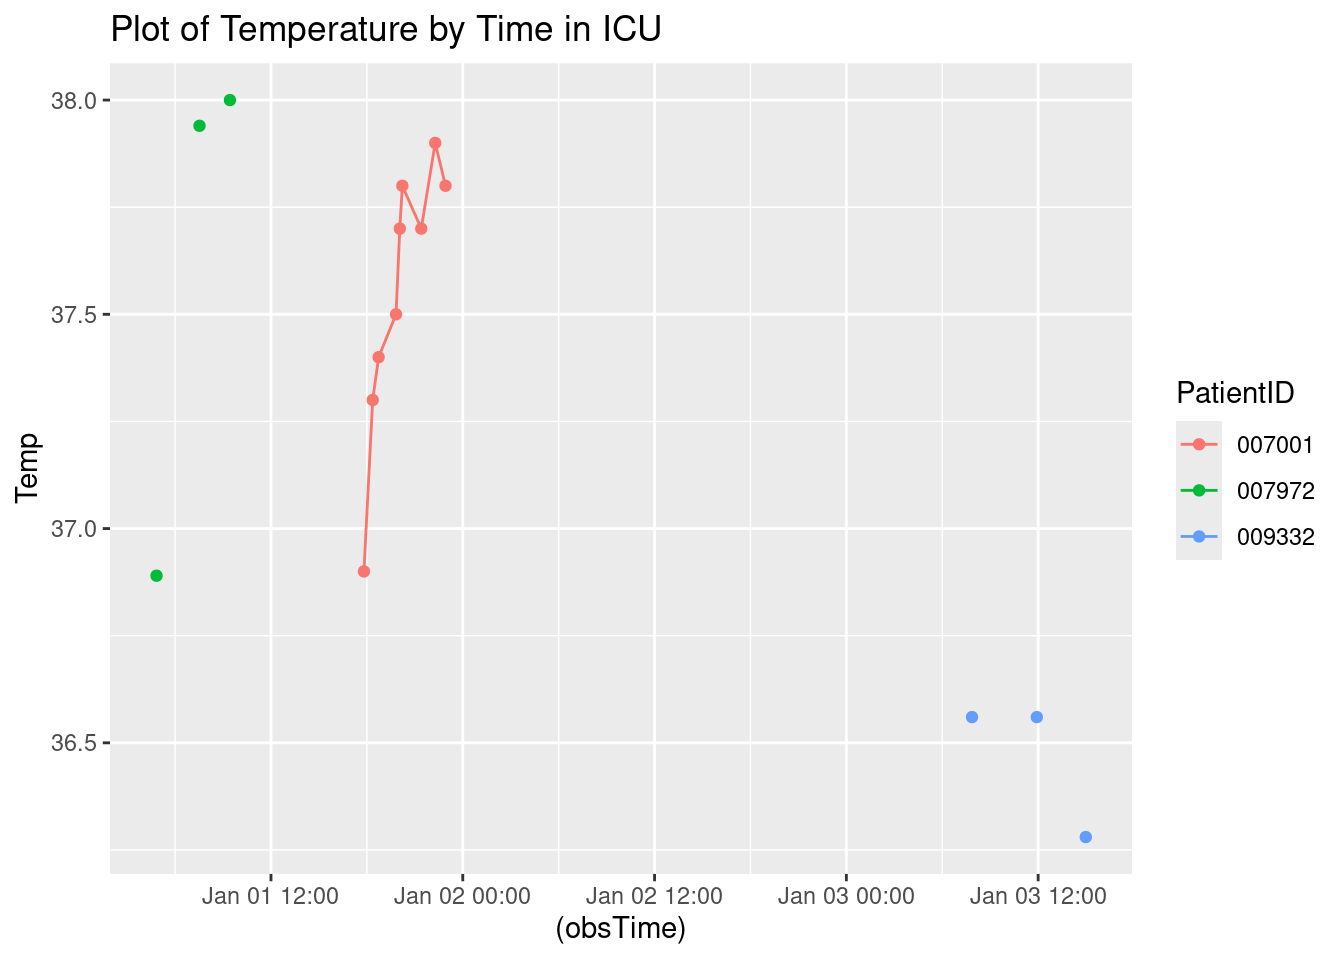
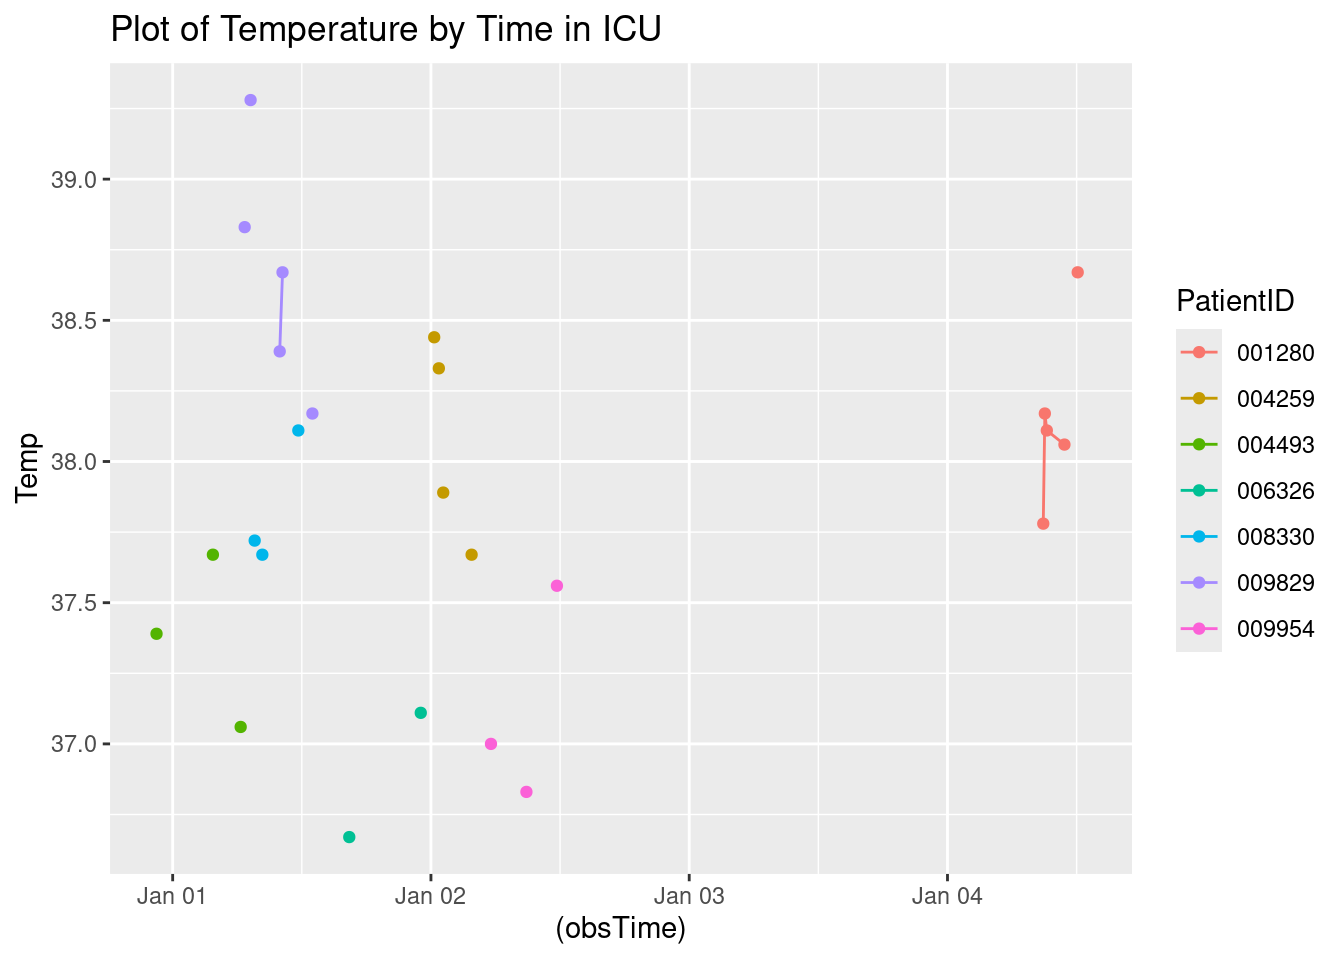
Updated report

diff --git a/A7.html b/A7.html
@@ -116,7 +116,7 @@ pre > code.sourceCode > span > a:first-child::before { text-decoration: underlin
 </div>
 <div class="sourceCode cell-code" id="cb4"><pre class="sourceCode r code-with-copy"><code class="sourceCode r"><span id="cb4-1"><a href="#cb4-1" aria-hidden="true" tabindex="-1"></a><span class="fu">toc</span>()</span></code><button title="Copy to Clipboard" class="code-copy-button"><i class="bi"></i></button></pre></div>
 <div class="cell-output cell-output-stdout">
-<pre><code>16.67 sec elapsed</code></pre>
+<pre><code>29.905 sec elapsed</code></pre>
 </div>
 <div class="sourceCode cell-code" id="cb6"><pre class="sourceCode r code-with-copy"><code class="sourceCode r"><span id="cb6-1"><a href="#cb6-1" aria-hidden="true" tabindex="-1"></a><span class="fu">tic</span>()</span>
 <span id="cb6-2"><a href="#cb6-2" aria-hidden="true" tabindex="-1"></a>test1<span class="ot">=</span><span class="fu">makeSepsisDataset</span>(<span class="at">n=</span><span class="dv">50</span>,<span class="at">read_fn =</span> <span class="st">"read_delim"</span>)</span>
@@ -126,7 +126,7 @@ pre > code.sourceCode > span > a:first-child::before { text-decoration: underlin
 </div>
 <div class="sourceCode cell-code" id="cb8"><pre class="sourceCode r code-with-copy"><code class="sourceCode r"><span id="cb8-1"><a href="#cb8-1" aria-hidden="true" tabindex="-1"></a><span class="fu">toc</span>()</span></code><button title="Copy to Clipboard" class="code-copy-button"><i class="bi"></i></button></pre></div>
 <div class="cell-output cell-output-stdout">
-<pre><code>9.769 sec elapsed</code></pre>
+<pre><code>21.307 sec elapsed</code></pre>
 </div>
 <div class="sourceCode cell-code" id="cb10"><pre class="sourceCode r code-with-copy"><code class="sourceCode r"><span id="cb10-1"><a href="#cb10-1" aria-hidden="true" tabindex="-1"></a><span class="co"># n=100</span></span>
 <span id="cb10-2"><a href="#cb10-2" aria-hidden="true" tabindex="-1"></a><span class="fu">tic</span>()</span>
@@ -137,7 +137,7 @@ pre > code.sourceCode > span > a:first-child::before { text-decoration: underlin
 </div>
 <div class="sourceCode cell-code" id="cb12"><pre class="sourceCode r code-with-copy"><code class="sourceCode r"><span id="cb12-1"><a href="#cb12-1" aria-hidden="true" tabindex="-1"></a><span class="fu">toc</span>()</span></code><button title="Copy to Clipboard" class="code-copy-button"><i class="bi"></i></button></pre></div>
 <div class="cell-output cell-output-stdout">
-<pre><code>17.195 sec elapsed</code></pre>
+<pre><code>57.098 sec elapsed</code></pre>
 </div>
 <div class="sourceCode cell-code" id="cb14"><pre class="sourceCode r code-with-copy"><code class="sourceCode r"><span id="cb14-1"><a href="#cb14-1" aria-hidden="true" tabindex="-1"></a><span class="fu">tic</span>()</span>
 <span id="cb14-2"><a href="#cb14-2" aria-hidden="true" tabindex="-1"></a>test1<span class="ot">=</span><span class="fu">makeSepsisDataset</span>(<span class="at">n=</span><span class="dv">100</span>,<span class="at">read_fn =</span> <span class="st">"read_delim"</span>)</span>
@@ -147,7 +147,7 @@ pre > code.sourceCode > span > a:first-child::before { text-decoration: underlin
 </div>
 <div class="sourceCode cell-code" id="cb16"><pre class="sourceCode r code-with-copy"><code class="sourceCode r"><span id="cb16-1"><a href="#cb16-1" aria-hidden="true" tabindex="-1"></a><span class="fu">toc</span>()</span></code><button title="Copy to Clipboard" class="code-copy-button"><i class="bi"></i></button></pre></div>
 <div class="cell-output cell-output-stdout">
-<pre><code>18.037 sec elapsed</code></pre>
+<pre><code>41.865 sec elapsed</code></pre>
 </div>
 <div class="sourceCode cell-code" id="cb18"><pre class="sourceCode r code-with-copy"><code class="sourceCode r"><span id="cb18-1"><a href="#cb18-1" aria-hidden="true" tabindex="-1"></a><span class="co"># n=500</span></span>
 <span id="cb18-2"><a href="#cb18-2" aria-hidden="true" tabindex="-1"></a><span class="fu">tic</span>()</span>
@@ -158,7 +158,7 @@ pre > code.sourceCode > span > a:first-child::before { text-decoration: underlin
 </div>
 <div class="sourceCode cell-code" id="cb20"><pre class="sourceCode r code-with-copy"><code class="sourceCode r"><span id="cb20-1"><a href="#cb20-1" aria-hidden="true" tabindex="-1"></a><span class="fu">toc</span>()</span></code><button title="Copy to Clipboard" class="code-copy-button"><i class="bi"></i></button></pre></div>
 <div class="cell-output cell-output-stdout">
-<pre><code>91.389 sec elapsed</code></pre>
+<pre><code>282.601 sec elapsed</code></pre>
 </div>
 <div class="sourceCode cell-code" id="cb22"><pre class="sourceCode r code-with-copy"><code class="sourceCode r"><span id="cb22-1"><a href="#cb22-1" aria-hidden="true" tabindex="-1"></a><span class="fu">tic</span>()</span>
 <span id="cb22-2"><a href="#cb22-2" aria-hidden="true" tabindex="-1"></a>test1<span class="ot">=</span><span class="fu">makeSepsisDataset</span>(<span class="at">n=</span><span class="dv">500</span>,<span class="at">read_fn =</span> <span class="st">"read_delim"</span>)</span>
@@ -168,7 +168,7 @@ pre > code.sourceCode > span > a:first-child::before { text-decoration: underlin
 </div>
 <div class="sourceCode cell-code" id="cb24"><pre class="sourceCode r code-with-copy"><code class="sourceCode r"><span id="cb24-1"><a href="#cb24-1" aria-hidden="true" tabindex="-1"></a><span class="fu">toc</span>()</span></code><button title="Copy to Clipboard" class="code-copy-button"><i class="bi"></i></button></pre></div>
 <div class="cell-output cell-output-stdout">
-<pre><code>95.258 sec elapsed</code></pre>
+<pre><code>209.869 sec elapsed</code></pre>
 </div>
 </div>
 <p><strong>Task 3</strong></p>
@@ -194,7 +194,7 @@ pre > code.sourceCode > span > a:first-child::before { text-decoration: underlin
 <span id="cb28-4"><a href="#cb28-4" aria-hidden="true" tabindex="-1"></a></span>
 <span id="cb28-5"><a href="#cb28-5" aria-hidden="true" tabindex="-1"></a><span class="fu">Sys.time</span>()</span></code><button title="Copy to Clipboard" class="code-copy-button"><i class="bi"></i></button></pre></div>
 <div class="cell-output cell-output-stdout">
-<pre><code>[1] "2024-12-31 21:23:41 UTC"</code></pre>
+<pre><code>[1] "2024-12-31 22:30:00 UTC"</code></pre>
 </div>
 <div class="sourceCode cell-code" id="cb30"><pre class="sourceCode r code-with-copy"><code class="sourceCode r"><span id="cb30-1"><a href="#cb30-1" aria-hidden="true" tabindex="-1"></a>dfnew <span class="ot">&lt;-</span> df <span class="sc">%&gt;%</span></span>
 <span id="cb30-2"><a href="#cb30-2" aria-hidden="true" tabindex="-1"></a>  <span class="fu">subset</span>(SepsisLabel<span class="sc">==</span><span class="dv">1</span>)</span>
@@ -223,31 +223,67 @@ pre > code.sourceCode > span > a:first-child::before { text-decoration: underlin
 </thead>
 <tbody>
 <tr class="odd">
-<td style="text-align: left;">007001</td>
-<td style="text-align: right;">28</td>
-<td style="text-align: right;">85</td>
-<td style="text-align: right;">37.80</td>
-<td style="text-align: right;">18</td>
+<td style="text-align: left;">001280</td>
+<td style="text-align: right;">89</td>
+<td style="text-align: right;">101</td>
+<td style="text-align: right;">NA</td>
+<td style="text-align: right;">20</td>
 <td style="text-align: right;">1</td>
-<td style="text-align: left;">2025-01-01 22:55:10</td>
+<td style="text-align: left;">2025-01-04 12:51:04</td>
 </tr>
 <tr class="even">
-<td style="text-align: left;">007972</td>
-<td style="text-align: right;">14</td>
+<td style="text-align: left;">004259</td>
+<td style="text-align: right;">33</td>
 <td style="text-align: right;">75</td>
-<td style="text-align: right;">38.00</td>
-<td style="text-align: right;">24</td>
+<td style="text-align: right;">NA</td>
+<td style="text-align: right;">12</td>
 <td style="text-align: right;">1</td>
-<td style="text-align: left;">2025-01-01 09:25:55</td>
+<td style="text-align: left;">2025-01-02 05:48:46</td>
 </tr>
 <tr class="odd">
-<td style="text-align: left;">009332</td>
-<td style="text-align: right;">66</td>
-<td style="text-align: right;">102</td>
-<td style="text-align: right;">36.28</td>
+<td style="text-align: left;">004493</td>
+<td style="text-align: right;">8</td>
+<td style="text-align: right;">79</td>
+<td style="text-align: right;">37.06</td>
 <td style="text-align: right;">27</td>
 <td style="text-align: right;">1</td>
-<td style="text-align: left;">2025-01-03 14:58:50</td>
+<td style="text-align: left;">2025-01-01 06:19:06</td>
+</tr>
+<tr class="even">
+<td style="text-align: left;">006326</td>
+<td style="text-align: right;">29</td>
+<td style="text-align: right;">101</td>
+<td style="text-align: right;">NA</td>
+<td style="text-align: right;">21</td>
+<td style="text-align: right;">1</td>
+<td style="text-align: left;">2025-01-02 02:45:08</td>
+</tr>
+<tr class="odd">
+<td style="text-align: left;">008330</td>
+<td style="text-align: right;">16</td>
+<td style="text-align: right;">84</td>
+<td style="text-align: right;">NA</td>
+<td style="text-align: right;">18</td>
+<td style="text-align: right;">1</td>
+<td style="text-align: left;">2025-01-01 14:26:50</td>
+</tr>
+<tr class="even">
+<td style="text-align: left;">009829</td>
+<td style="text-align: right;">16</td>
+<td style="text-align: right;">99</td>
+<td style="text-align: right;">NA</td>
+<td style="text-align: right;">20</td>
+<td style="text-align: right;">1</td>
+<td style="text-align: left;">2025-01-01 13:10:50</td>
+</tr>
+<tr class="odd">
+<td style="text-align: left;">009954</td>
+<td style="text-align: right;">38</td>
+<td style="text-align: right;">96</td>
+<td style="text-align: right;">37.56</td>
+<td style="text-align: right;">14</td>
+<td style="text-align: right;">1</td>
+<td style="text-align: left;">2025-01-02 11:42:26</td>
 </tr>
 </tbody>
 </table>
